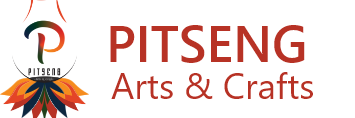
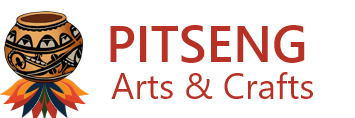
u

Changed region(s): [[0.0, 0.0, 0.2479, 0.7119]]

diff --git a/src/app/pages/details/details.page.scss b/src/app/pages/details/details.page.scss
@@ -520,6 +520,106 @@ textarea {
   }
 }
 
+.myHeader {
+  width: 100%;
+  height: 180px;
+  background: red;
+  transition: 300ms;
+}
+
+#categories {
+  height: calc(100% + 10px);
+  background: #9f190c;
+  margin-bottom: 10px;
+}
+.head-top {
+  width: 100%;
+  height: 130px;
+  background: white;
+  transition: 300ms;
+}
+.components {
+  width: 70%;
+  height: 100%;
+  margin: 0 auto;
+  display: flex;
+  justify-content: space-between;
+  align-items: center;
+  transition: 300ms;
+}
+.components > div {
+  // border: 2px solid red;
+  display: flex;
+  justify-content: center;
+  align-items: center;
+  width: 30%;
+}
+.components > div:nth-child(1) {
+  // border: 1px solid red;
+  max-height: 100px;
+  max-width: 250px;
+}
+.head-tail {
+  height: 50px;
+  width: 100%;
+  background: #932322;
+  display: flex;
+  justify-content: center;
+  align-items: center;
+}
+.nav-buttons {
+  width: 70%;
+  height: 100%;
+  // border: 1px solid black;
+  display: flex;
+  justify-content: space-between;
+  align-items: center;
+  color: white;
+}
+.nav-buttons > div {
+  width: 20%;
+  height: 100%;
+  text-align: center;
+  display: flex;
+  justify-content: center;
+  align-items: center;
+  // border: 2px solid red;
+  cursor: pointer;
+}
+
+#adder-big {
+  border-radius: 20px;
+  display: block;
+}
+
+#adder-small {
+  border-radius: 20px;
+  display: none;
+}
+.feet {
+  width: 100%;
+  background: #9f190c;
+  text-align: center;
+  color: white;
+  height: 40px;
+  line-height: 30px;
+  // display: flex;
+}
+
+
+.nav-buttons > div:nth-child(2){
+  background: rgba(0, 0, 0, 0.26);
+  animation: btnFadeIn 300ms;
+}
+@keyframes btnFadeIn {
+  0%{
+    background: transparent;
+  }
+  100%{
+    background: rgba(0, 0, 0, 0.26);
+
+  }
+}
 #unpromote{
   height: 30px;
   background: transparent;

diff --git a/src/app/pages/details/details.page.html b/src/app/pages/details/details.page.html
@@ -61,10 +61,10 @@
           <img src="../../../assets/Group 235.png" alt="">
         </div>
         <div>
-          <ion-searchbar (keyup)='searchProducts($event)'></ion-searchbar>
+          <!-- <ion-searchbar (keyup)='searchProducts($event)'></ion-searchbar> -->
         </div>
         <div id="items-right">
-          <div id="profile" (click)="openProfile()">
+          <!-- <div id="profile" (click)="openProfile()">
             <ion-icon name="person"></ion-icon>
           </div>
           <div>
@@ -74,7 +74,7 @@
             <ion-button id="adder-small" (click)="openAddProduct()" fill="outline" shape="round">
               <ion-icon name="add"></ion-icon>
             </ion-button>
-          </div>
+          </div> -->
         </div>
       </div>
     </div>

diff --git a/src/app/pages/sign-in/sign-in.page.html b/src/app/pages/sign-in/sign-in.page.html
@@ -91,7 +91,7 @@
         <button id="submitter" [disabled]="inputs" (click)="submitDetails()">Login</button>
       </div>
       <div id="logo">
-        <img src="../../../assets/1.png" alt="">
+        <img src="../../../assets/Group 235.png" alt="">
       </div>
     </div>
   </div>

diff --git a/src/app/pages/sign-in/sign-in.page.scss b/src/app/pages/sign-in/sign-in.page.scss
@@ -62,7 +62,7 @@
   align-items: center;
   transition: 300ms;
   img {
-    width: 150px;
+    width: 250px;
   }
 }
 .userInput {
